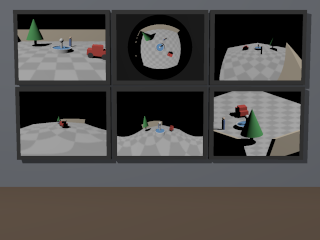
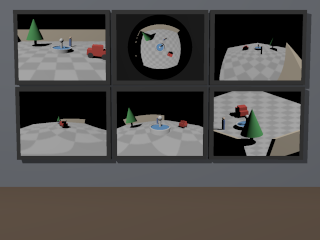
Keep the security wall on standard cameras

Changed region(s): [[0.3438, 0.4375, 0.6562, 0.5833]]

diff --git a/doc/html/r3_10.html b/doc/html/r3_10.html
@@ -746,7 +746,7 @@ object { TV(1.2, 0.9, Broadcast) translate &lt;0.2, 0.62, -0.1&gt; }
 <a name="r3_10_5_2"></a>
 <div class="content-level-h4" contains="A Wall of Security Cameras" id="r3_10_5_2">
 <h4>3.10.5.2 A Wall of Security Cameras</h4>
-<p>Six monitors, each a screen on its own camera, watch a courtyard the render's camera never sees. Their cameras use perspective, fisheye, ultra-wide, panoramic, Mercator and orthographic projections to show that a screen accepts every camera type except <code>mesh_camera</code>. Each camera is a separate view, so each has its own tracer and, with radiosity, its own pretrace pass.</p>
+<p>Six monitors, each a screen on its own camera, watch a courtyard the render's camera never sees. Their cameras use the standard perspective, fisheye, ultra-wide, panoramic, spherical and orthographic projections. Each camera is a separate view, so each has its own tracer and, with radiosity, its own pretrace pass.</p>
 <pre>
 #for (I, 0, 5)
     #local Place = &lt;-1.35 + 1.35 * mod(I, 3), 0.95 + 1.05 * (1 - floor(I / 3)), 0&gt;;
